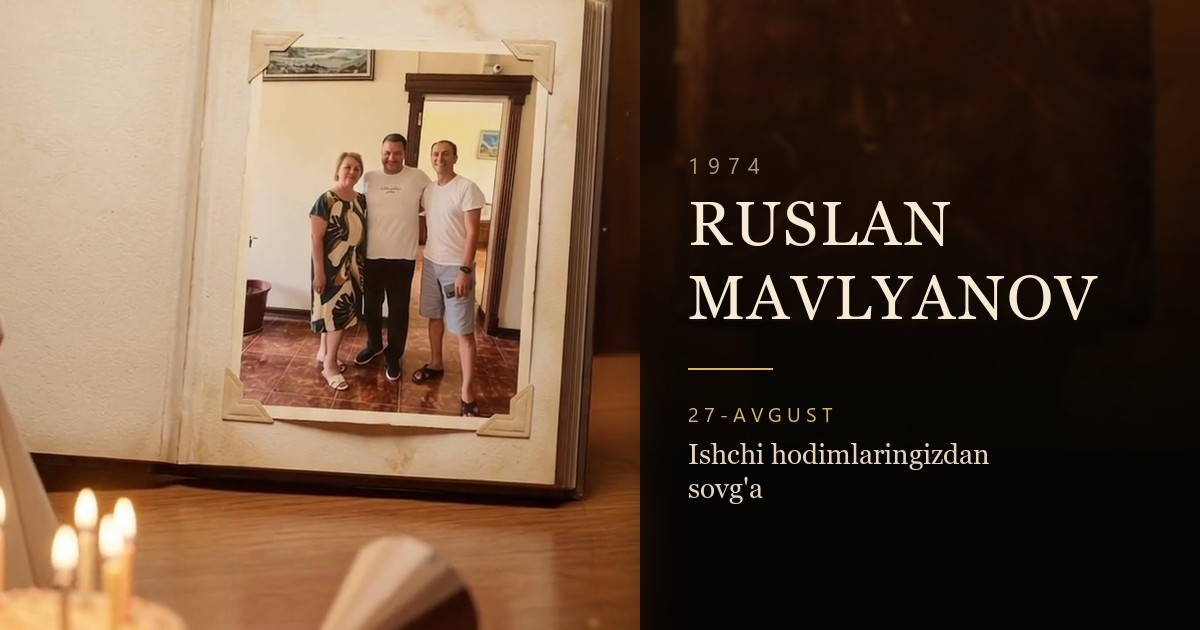
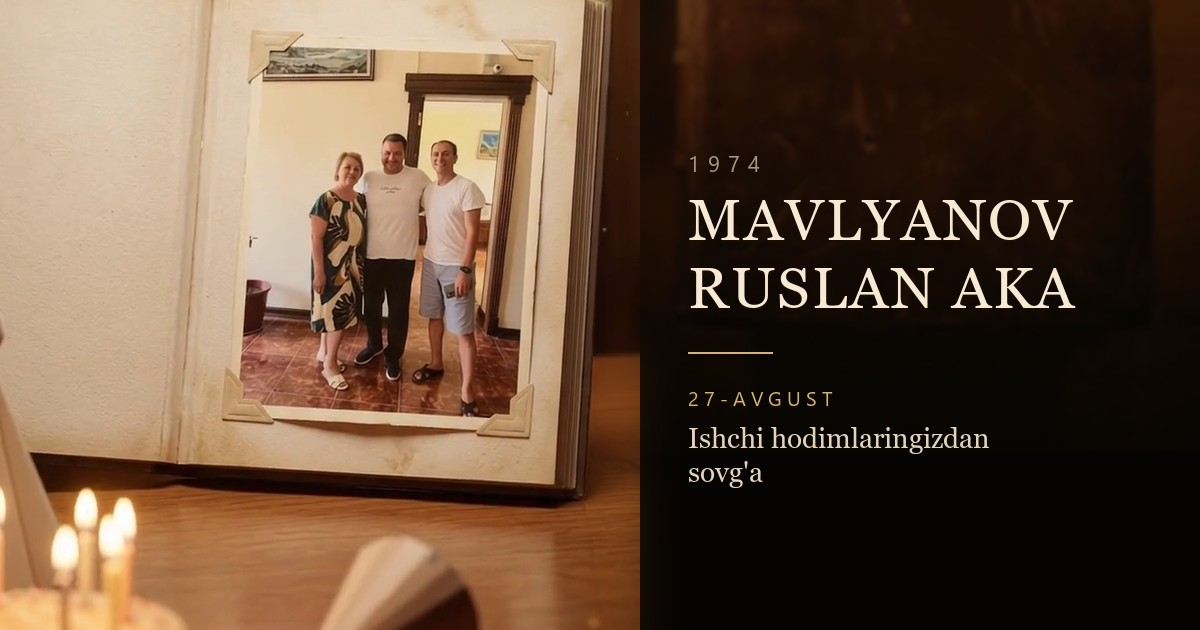
Ism hurmat shaklida: Mavlyanov Ruslan aka
O'zbekchada rasmiy va hurmatli tartib shu: familiya, keyin ism
va "aka". Muqova, titul varag'i, sahifa sarlavhasi, Telegram
xabari va havola kartochkasi — hammasi shunga o'tkazildi.

diff --git a/index.html b/index.html
@@ -3,8 +3,8 @@
 <head>
 <meta charset="UTF-8">
 <meta name="viewport" content="width=device-width, initial-scale=1">
-<title>Ruslan Mavlyanov — Tug'ilgan kun</title>
-<meta name="description" content="Ruslan Mavlyanov. 27-avgust 1974. Ishchi hodimlaridan sovg'a.">
+<title>Mavlyanov Ruslan aka — Tug'ilgan kun</title>
+<meta name="description" content="Mavlyanov Ruslan aka. 27-avgust 1974. Ishchi hodimlaridan sovg'a.">
 <meta name="robots" content="noindex, nofollow">
 <meta name="theme-color" content="#efe4d2">
 
@@ -14,17 +14,17 @@
 <meta property="og:type" content="website">
 <meta property="og:site_name" content="Tabriknoma">
 <meta property="og:locale" content="uz_UZ">
-<meta property="og:title" content="Ruslan Mavlyanov — Tug'ilgan kuningiz bilan">
+<meta property="og:title" content="Mavlyanov Ruslan aka — Tug'ilgan kuningiz bilan">
 <meta property="og:description" content="27-avgust 1974. Ishchi hodimlaringizdan sovg'a.">
 <meta property="og:url" content="https://ruslan-tugulgankun.netlify.app/">
 <meta property="og:image" content="https://ruslan-tugulgankun.netlify.app/img/og.jpg">
 <meta property="og:image:type" content="image/jpeg">
 <meta property="og:image:width" content="1200">
 <meta property="og:image:height" content="630">
-<meta property="og:image:alt" content="Ruslan Mavlyanov — tabriknoma">
+<meta property="og:image:alt" content="Mavlyanov Ruslan aka — tabriknoma">
 
 <meta name="twitter:card" content="summary_large_image">
-<meta name="twitter:title" content="Ruslan Mavlyanov — Tug'ilgan kuningiz bilan">
+<meta name="twitter:title" content="Mavlyanov Ruslan aka — Tug'ilgan kuningiz bilan">
 <meta name="twitter:description" content="27-avgust 1974. Ishchi hodimlaringizdan sovg'a.">
 <meta name="twitter:image" content="https://ruslan-tugulgankun.netlify.app/img/og.jpg">
 
@@ -57,15 +57,15 @@
            disablepictureinpicture></video>
 
     <div class="cover" id="cover">
-      <img class="cover__img" src="img/cover.jpg" alt="Ruslan Mavlyanov, 1974">
+      <img class="cover__img" src="img/cover.jpg" alt="Mavlyanov Ruslan aka, 1974">
 
       <div class="cover__shade" aria-hidden="true"></div>
 
       <!-- Muqovadagi taxtacha bo'sh — yozuvni sayt chizadi.
            Shunda harflar o'tkir bo'ladi va apostroflar buzilmaydi. -->
       <div class="cover__plate">
-        <span class="cover__name">Ruslan</span>
         <span class="cover__name">Mavlyanov</span>
+        <span class="cover__name">Ruslan aka</span>
       </div>
       <p class="cover__foot">27-avgust 1974</p>
 
@@ -112,7 +112,7 @@
   <section class="titul" id="titul">
     <p class="titul__eyebrow">Ishchi hodimlaringizdan</p>
 
-    <h1 class="titul__name" id="heroTitle" aria-label="Ruslan Mavlyanov">
+    <h1 class="titul__name" id="heroTitle" aria-label="Mavlyanov Ruslan aka">
       <span class="line"><span class="mask" data-word=""></span></span>
       <span class="line"><span class="mask" data-word=""></span></span>
     </h1>
@@ -245,7 +245,7 @@
 </main>
 
 <footer class="footer">
-  <p class="footer__name">Ruslan Mavlyanov</p>
+  <p class="footer__name">Mavlyanov Ruslan aka</p>
   <p class="footer__year" id="footerYear"></p>
 </footer>
 

diff --git a/js/main.js b/js/main.js
@@ -8,8 +8,9 @@
    SOZLAMALAR — asosan shu blokni tahrirlaysiz
    --------------------------------------------------------- */
 const CONFIG = {
-  ism: "Ruslan",
-  familiya: "Mavlyanov",
+  // Hurmat yuzasidan o'zbekcha tartib: familiya, keyin ism va "aka"
+  ism: "Mavlyanov",
+  familiya: "Ruslan aka",
 
   // Tug'ilgan sana. oy: 1 = yanvar, 12 = dekabr
   tugilgan: { kun: 27, oy: 8, yil: 1974 },

diff --git a/netlify/functions/tilak.js b/netlify/functions/tilak.js
@@ -145,7 +145,7 @@ export default async (req) => {
   // Sayt nomi ataylab yozilyapti: bitta botni bir nechta tabriknoma
   // bilan ishlatsangiz, qaysi saytdan kelganini darrov bilasiz.
   const xabar =
-    `🎉 <b>Yangi tilak</b> — Ruslan Mavlyanov\n\n` +
+    `🎉 <b>Yangi tilak</b> — Mavlyanov Ruslan aka\n\n` +
     `👤 ${esc(ism)}\n\n` +
     `${esc(matn)}`;
 
